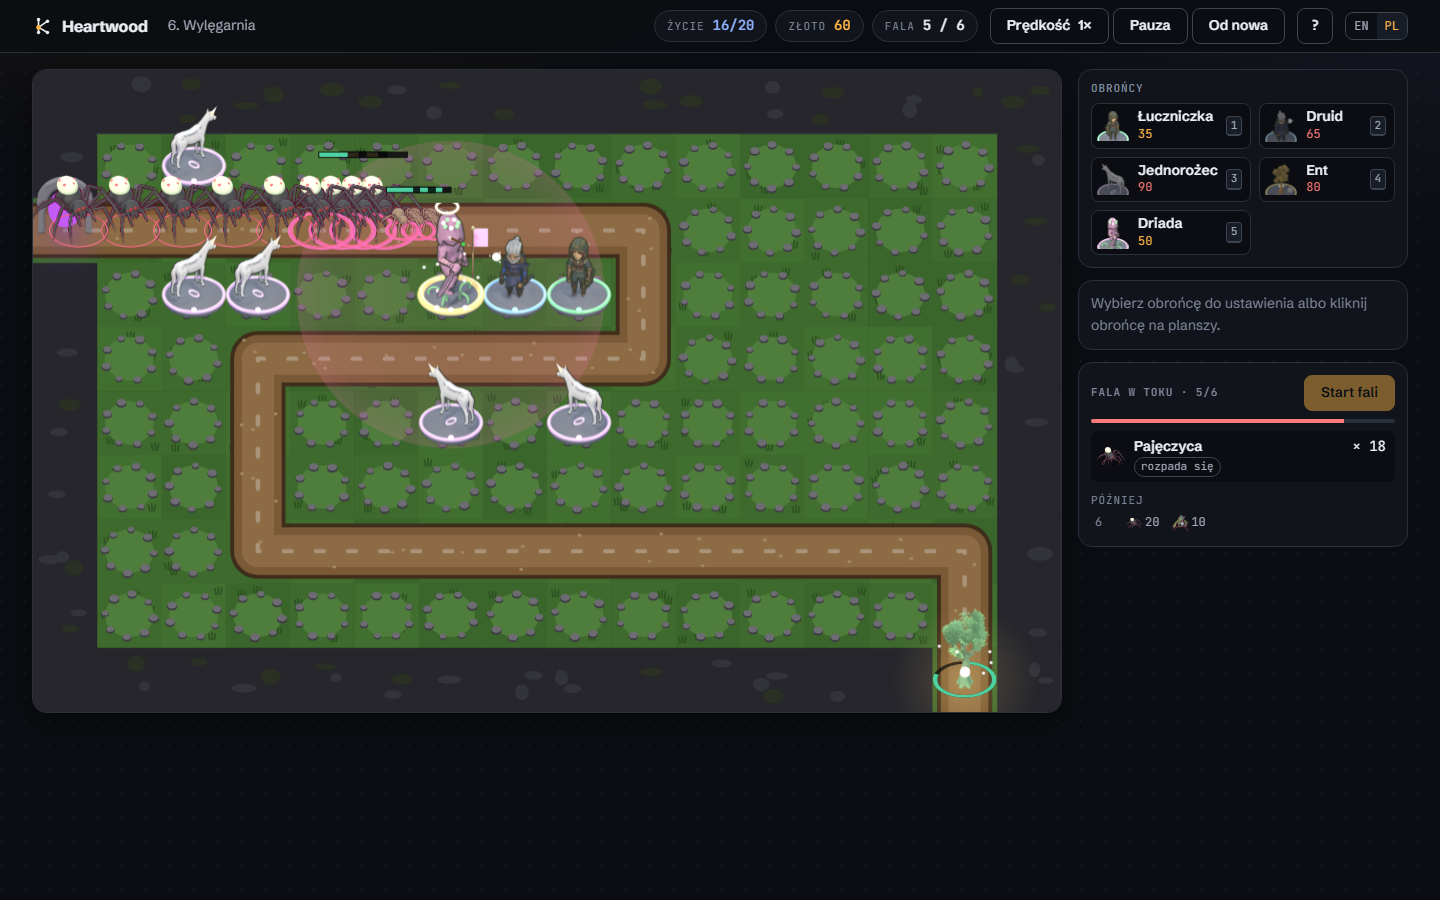
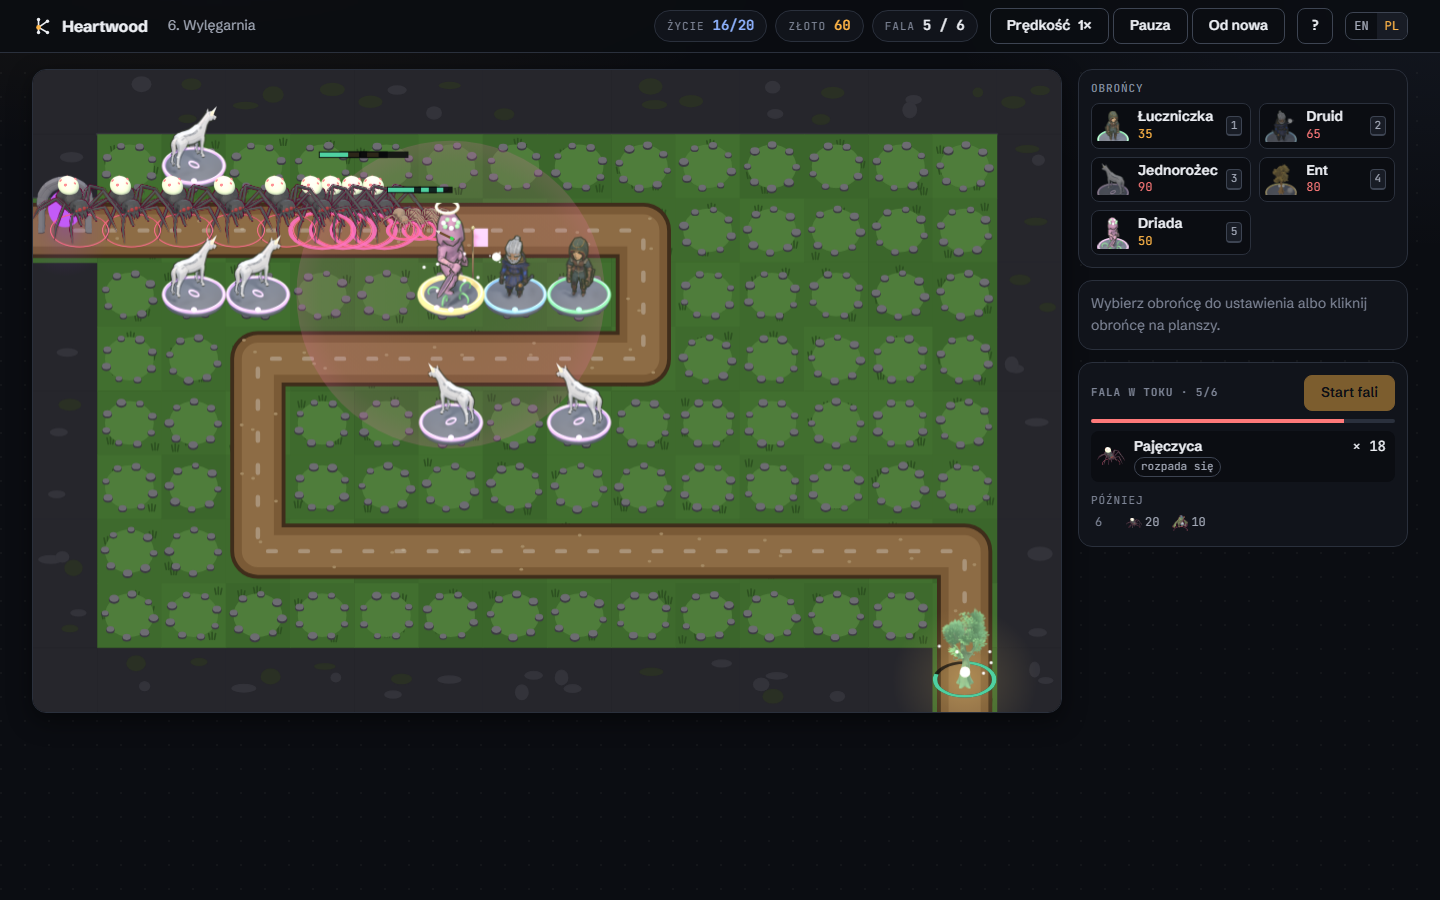
fix(siege): retry a lost chapter from its own start and strengthen the haze of the fog to come

diff --git a/src/ui/app.ts b/src/ui/app.ts
@@ -655,7 +655,9 @@ export class App {
         );
       else if (won) primary = button(this.t.backToLevels, 'btn-primary', () => this.showMenu());
       else
-        primary = button(this.t.siege.retry, 'btn-primary', () => this.openChapter(chapter, false));
+        primary = button(this.t.siege.retry, 'btn-primary', () =>
+          this.openChapter(chapter, false, this.chapterStart),
+        );
       if (!won || more) button(this.t.backToLevels, 'btn-ghost', () => this.showMenu());
     } else if (won && next)
       primary = button(this.t.nextLevel, 'btn-primary', () => this.openLevel(this.levelIndex + 1));

diff --git a/src/render/terrain.ts b/src/render/terrain.ts
@@ -24,7 +24,7 @@ const TERRAIN = {
   pebble: '#a58b65',
   crack: '#21160c',
   fog: 'rgba(214, 222, 232, 0.2)',
-  fogLater: 'rgba(214, 222, 232, 0.07)',
+  fogLater: 'rgba(214, 222, 232, 0.1)',
   fogEdge: 'rgba(214, 222, 232, 0)',
 } as const;
 
